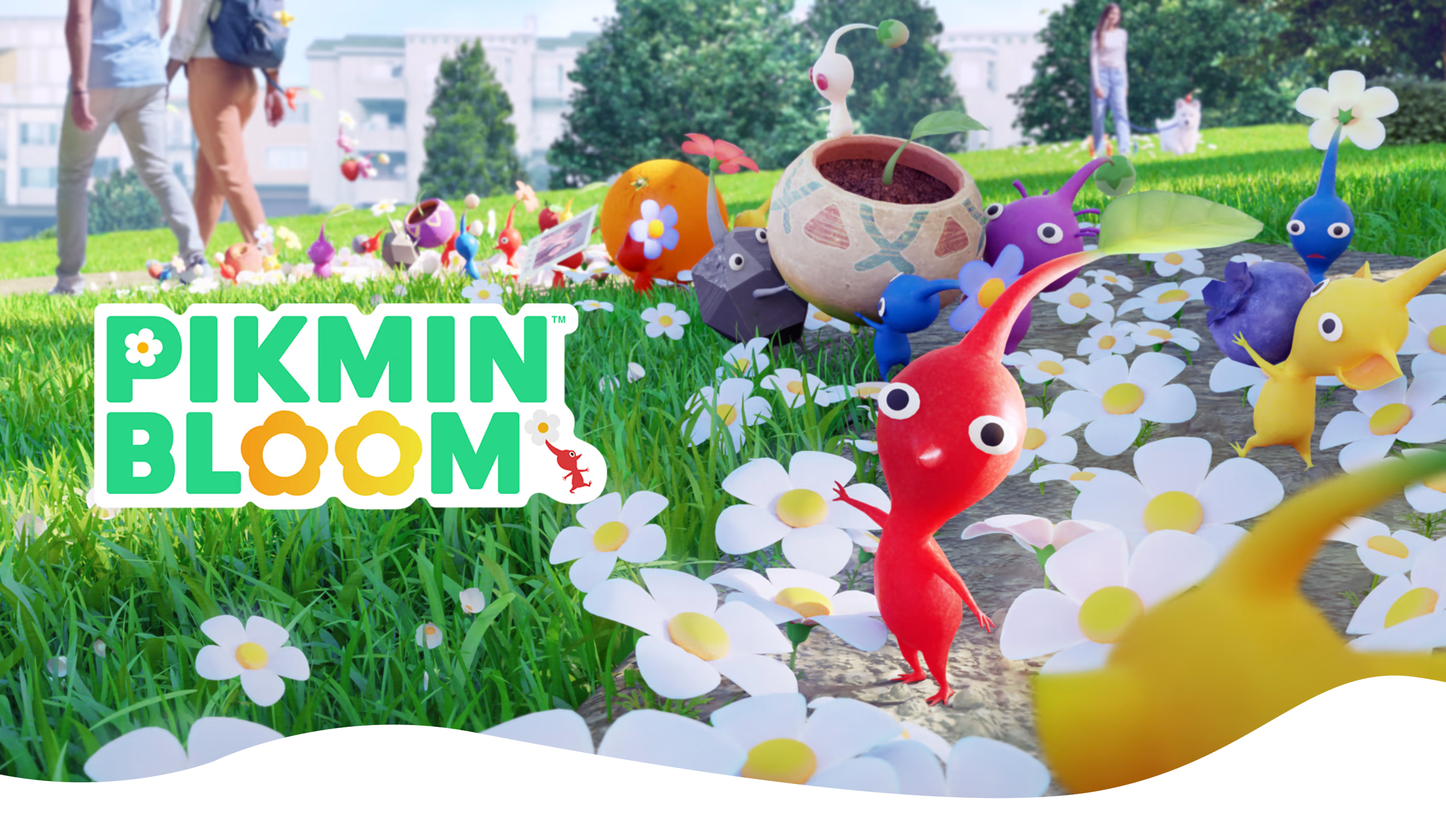
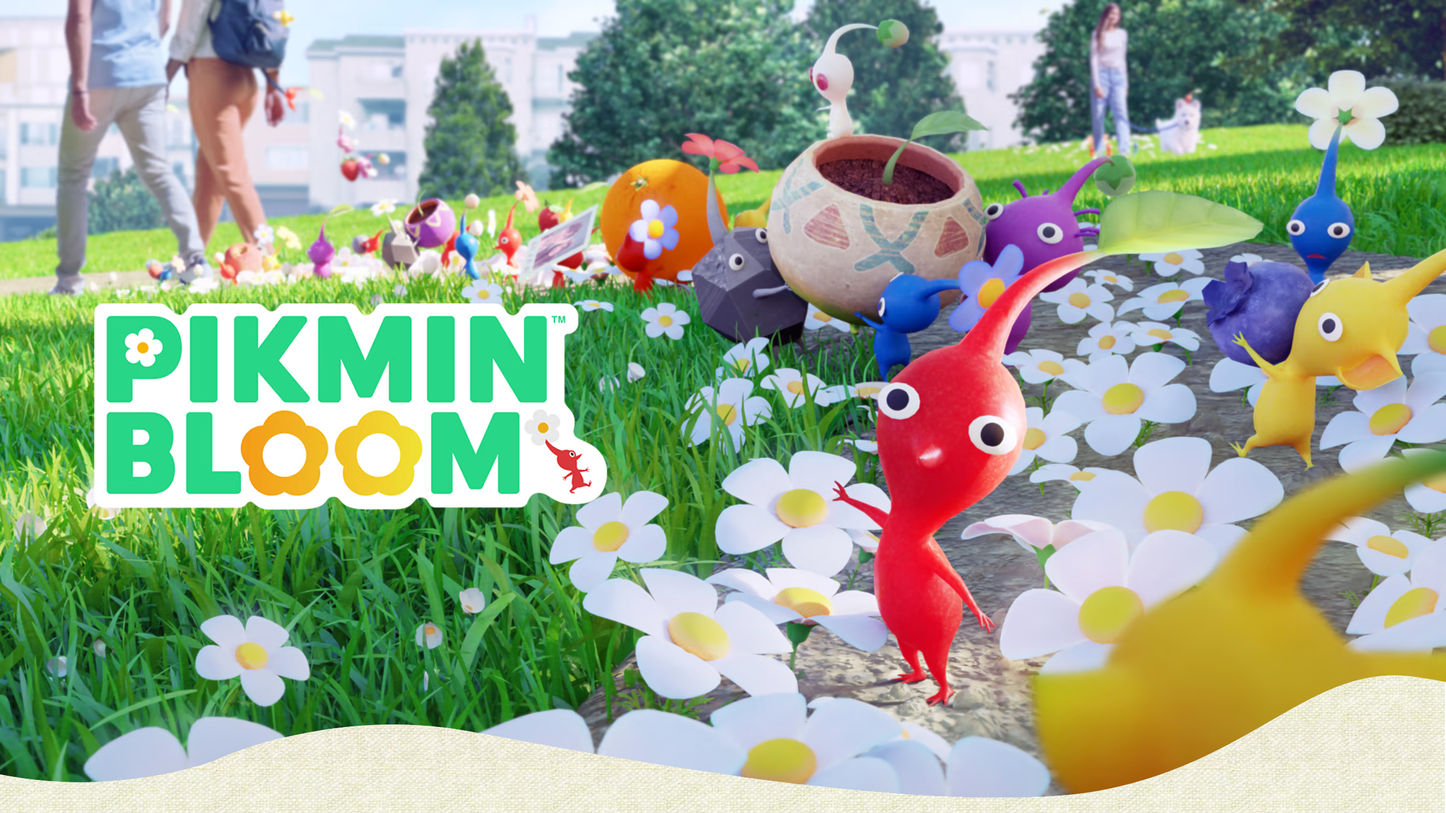
solo falta carrousel y responsive de l aportada

Changed region(s): [[0.0, 0.8089, 1.0, 1.0]]

diff --git a/main.css b/main.css
@@ -3,14 +3,18 @@
 body{
     --verde_claro:#27d687;
     --fondo_blanco:#f9f8fd;
+    --fondo_azulado:#eeeefc;
+    --fondo_grisaceo:#b5d4cf;
+    --enlaces:#65537f;
 }
-
 *{
     box-sizing: border-box;
-}
-body{
     margin: 0;
     padding: 0;
+}
+body{
+    background: url('imagenes/texture-bg.jpg');
+    background-repeat: repeat; 
     font-family: "Outfit", serif;
     font-optical-sizing: auto;
     font-weight: 600;
@@ -22,12 +26,123 @@ html{
     scroll-margin-top: 60px;
 }
 
+
+/* Pantallas Grandes */
+/* NAVBAR */
+nav {
+    background: var(--fondo_azulado);
+    display: flex;
+    justify-content: space-between;
+    align-items: center;
+    padding: 0 20px;
+    position: fixed;
+    width: 100%;
+    z-index: 6;
+    box-shadow: 0 4px 10px rgba(21, 21, 46, 0.1);
+}
+
+nav .logo {
+    display: flex;
+    align-items: center;
+    height: 90px;
+    margin-left: 20px !important;
+}
+
+nav ul {
+    display: flex;
+    justify-content: center;
+    align-items: center;
+    height: 100px;
+    flex-grow: 1;
+    margin-right: 20px;
+}
+
+nav ul a li {
+    list-style: none;
+    margin: 0 60px;
+    display: inline-block;
+    border-radius: 60px;
+}
+
+nav ul a li {
+    text-decoration: none;
+    color: var(--enlaces);
+}
+
+.opciones{
+    background-color: var(--fondo_grisaceo);
+    padding: 10px 50px;
+}
+#li_active{
+    background-color: var(--fondo_blanco);
+    border-radius: 60px;
+    box-shadow: 0 4px 8px rgba(21, 21, 46, 0.1);
+   
+}
+a #li_active {
+    color: var(--verde_claro);
+}
+#enlace-tienda{
+    height: 50px;
+    border-radius: 60px;
+    box-shadow: 0 4px 8px rgba(21, 21, 46, 0.1);
+}
+
+/* PORTADA */
+#portada{
+    width: 100%;
+    
+}
+
 /* CARROUSEL */
+article{
+    background: url('imagenes/pikmin-background-04.webp');
+    background-size: cover;
+    background-position: center;
+    height: 78.13vw;
+    display: flex;
+    /* justify-content: center; */
+    /* PRUEBAS */
+     flex-direction: column; /* Alinea los elementos en columna */
+    align-items: center;
+    
+    
+}
+article .cintas{
+    display: flex;
+    justify-content: center;
+    align-items: center;
+    padding: 100px 0;
+    /* height: 500px; */
+    height: 16.04vw;
+    min-width: auto;
+    min-height: 250px;
+    /* PRUEBAS */
+    position: relative; /* Añade posición relativa al contenedor */
+}
+article .cinta-text{
+    color: white;
+    font-size: 2.5vw;
+    font-weight: 700;
+    text-align: center;
+    padding: 0 20px;
+    /* PRUEBAS */ 
+    z-index: 3;
+    position: absolute; /* Añade posición absoluta al texto */
+    top: 50%; /* Centra verticalmente */
+    left: 50%; /* Centra horizontalmente */
+    transform: translate(-50%, -50%); /* Ajusta la posición para centrar */
+}
 .carousel {
+    height: 500px;
     display: flex;
     overflow: hidden;
     position: relative;
-    background: url('imagenes/pikmin-background-04.webp');
+    /* PRUEBAS */
+    width: 100%; /* Asegura que el carrusel ocupe todo el ancho disponible */
+    max-width: 1200px;
+    margin: 0 auto; /* Centra el carrusel */
+    border-radius: 10px;
 }
 
 .carousel-track {
@@ -76,7 +191,68 @@ html{
 .carousel-button.next {
     right: 10px;
 }
-
 .carousel-button:focus + .carousel-track {
     transform: translateX(-100%);
+}
+/* footer */
+footer{
+    background: url('imagenes/grass.webp');
+    background-size: cover;
+    height: 1200px;
+}
+.divider{
+    margin: auto;
+    padding: 90px 0 0;
+    display: flex;
+    justify-content: center;
+    align-items: center;
+}
+footer .divider{
+    width: 1300px;
+}
+.dos-columnas{
+    margin: 0 auto;
+    max-width: 1200px;
+    display: flex;
+    justify-content: space-around;
+    align-items: center;
+    padding: 70px 0;
+}
+.columna{
+    width:100%;
+    padding: 20px 0;
+    color: white;
+    border-radius: 10px;
+    text-align: center;
+}
+.download-app{
+    width: 400px;
+    padding: 20px;
+}
+
+#logo-app{
+    margin: 0 auto;
+    height:350px;
+    border-radius: 30px;
+}
+#privacidad{
+    color: white;
+    text-decoration: solid;
+    text-align: center;
+    padding: 130px 0 0;
+}
+#privacidad a{
+    color: white;
+    padding-bottom: 20px;
+    display: block;
+    margin-bottom: 20px; 
+}
+
+/* PANTALLAS MEDIANAS */
+@media screen and (min-width:640px) {
+    
+}
+/* PANTALLAS PEQUEÑAS */
+@media screen and (min-width:60px) {
+    
 }

diff --git a/index.html b/index.html
@@ -10,30 +10,31 @@
 <body>
     <!-- NAVBAR -->
     <nav>
-        <div class="logo">
-            <img src="imagenes/logo-02.png" alt="">
-        </div>
+        <img class="logo" src="imagenes/logo-02.png" alt="">
         <ul class="nav-links">
-            <li><a href="#">HOME</a></li>
-            <li><a href="info.html">INFORMATION</a></li>
-            <li><a href="contact.html">CONTACT</a></li>
+            <a href="#"><li id="li_active" class="opciones">HOME</li></a>
+            <a href="info.html"><li class="opciones">INFORMATION</li></a>
+            <a href="contact.html"><li class="opciones">CONTACT</li></a>
+            <a href="https://store.pikminbloom.com"><li ><img id="enlace-tienda" src="imagenes/enlace_tienda.png" alt=""></li></a>
         </ul>
     </nav>
     <header>
         <h1>PIKMIN BLOOM</h1>
-        <img src="imagenes/portada-recortada.jpg" alt="">
+        <img id="portada" src="imagenes/portada-recortada.jpg" alt="">
     </header>
     <article>
-        <img class="cintas" src="imagenes/cinta-01.png" alt="">
-        <h2>NEWS</h2>
+        <div class="cintas">
+            <h2 class="cinta-text">NEWS</h2>
+            <img  class="cintas" src="imagenes/cinta-01.png" alt="">
+        </div>
         <div class="carousel">
             <button class="carousel-button prev">&#10094;</button>
             <div class="carousel-track">
                 <div class="carousel-item">
                     <img src="imagenes/news-01.webp" alt="News 1">
                     <div class="carousel-caption">
-                        <h3>News Title 1</h3>
-                        <p>News description 1.</p>
+                        <p>2/27/2025</p>
+                        <h3>Community Day on March 15 & 16, 2025</h3>
                     </div>
                 </div>
                 <div class="carousel-item">
@@ -41,13 +42,31 @@
                     <div class="carousel-caption">
                         <h3>News Title 2</h3>
                         <p>News description 2.</p>
-                    </div>
+                    </div> 
                 </div>
                 <!-- Add more carousel items as needed -->
             </div>
             <button class="carousel-button next">&#10095;</button>
         </div>
     </article>
-    <img src="imagenes/portada-recortada.jpg" alt="">
+    <footer>
+        <img class="divider" src="imagenes/flower_divider.svg" alt="">
+        <div class="dos-columnas">
+            <div class="columna">
+                <img id="logo-app" src="imagenes/logo-border-mini.jpg" alt="">
+            </div>
+            <div class="columna">
+                <h3>
+                    Descárgalo aquí
+                </h3>
+                <img class="download-app" src="imagenes/googleplay_es.png" alt="">
+                <img class="download-app" src="imagenes/appstore_badge_black_es.svg" alt="">
+            </div>
+        </div>
+        <div id="privacidad">
+            <a href="">Política de privacidad</a>
+            <p>Pikmin Bloom Copyright © 2021 Niantic, Inc., Pikmin and Mii Characters / Artwork / Music Copyright © 2021 Nintendo All Rights Reserved</p>
+        </div>
+    </footer>
 </body>
 </html>
